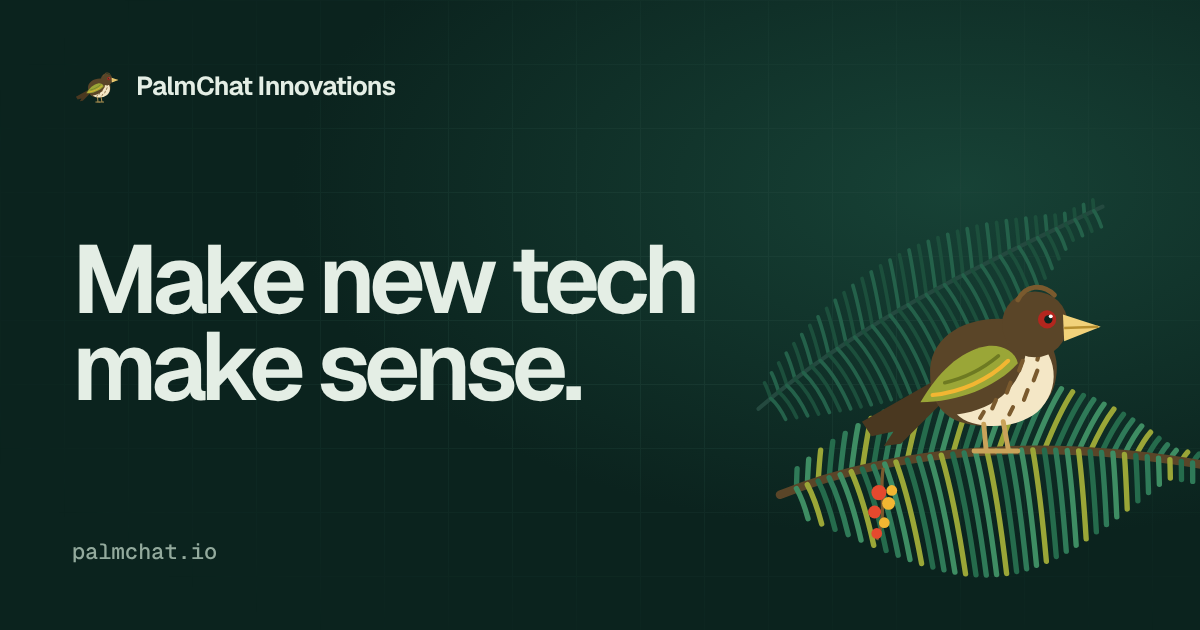
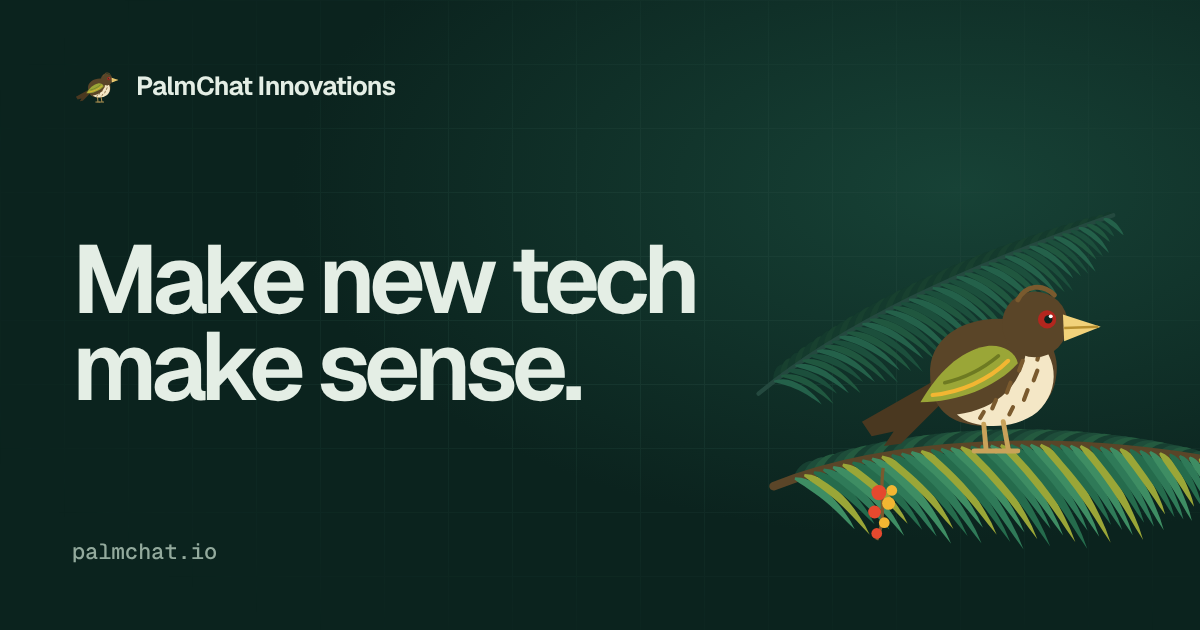
Redraw fronds as real palm leaves and make the nest solid
- Fronds: long, tapered leaflets that arch and droop, with a darker far side behind the rachis
- Nest: solid bowl and rim that fill in as it is built, so nothing shows through
- Link preview regenerated with the new fronds

Claude-Session: https://claude.ai/code/session_01UytVwwVVXUm7dnVo93DB2H

Changed region(s): [[0.6167, 0.3317, 1.0, 0.9349]]

diff --git a/script.js b/script.js
@@ -32,28 +32,42 @@
   if (!reduce) document.querySelectorAll('[data-assemble] .bird').forEach((b) => b.classList.add('assemble'));
 
   /* ---- royal palm fronds, generated leaflet by leaflet ---- */
+  /* A royal palm frond: an arching rachis with long, narrow leaflets that taper and droop.
+     Far-side leaflets sit behind the rachis in darker greens; near-side ones hang in front. */
   function frond(svg, d, o) {
-    const g = document.createElementNS(SVGNS, 'g');
-    const back = document.createElementNS(SVGNS, 'g');
-    const rach = document.createElementNS(SVGNS, 'path');
+    const mk = (n) => document.createElementNS(SVGNS, n);
+    const g = mk('g'), far = mk('g'), near = mk('g'), rach = mk('path');
     rach.setAttribute('d', d); rach.setAttribute('fill', 'none'); rach.setAttribute('stroke', o.stem);
     rach.setAttribute('stroke-width', o.w); rach.setAttribute('stroke-linecap', 'round');
-    svg.appendChild(g); g.appendChild(back); g.appendChild(rach);
-    const L = rach.getTotalLength();
+    svg.appendChild(g); g.append(far, rach, near);
+    const L = rach.getTotalLength(), step = o.step || 0.022, farCols = o.far || ['#173F31', '#1E4D3A', '#245A3F'];
+    const theta = o.theta || 0.62, steps = 12;
     let i = 0;
-    for (let t = o.from || 0.04; t < 0.985; t += o.step || 0.026, i++) {
+    for (let t = o.from || 0.05; t < 0.985; t += step, i++) {
       const p = rach.getPointAtLength(t * L), q = rach.getPointAtLength(Math.min(L, t * L + 2));
-      const a = Math.atan2(q.y - p.y, q.x - p.x), len = o.len * Math.sin(Math.PI * Math.min(1, t * 1.12)) + 12;
-      for (const side of [-1, 1]) {
-        const ang = a + side * 1.05 + (side > 0 ? 0.35 : -0.15), droop = side > 0 ? 0.42 : 0.16;
-        const ex = p.x + Math.cos(ang) * len, ey = p.y + Math.sin(ang) * len + len * droop;
-        const leaf = document.createElementNS(SVGNS, 'path');
-        leaf.setAttribute('d', `M${p.x.toFixed(1)} ${p.y.toFixed(1)} Q${(p.x + Math.cos(ang) * len * 0.55).toFixed(1)} ${(p.y + Math.sin(ang) * len * 0.55).toFixed(1)} ${ex.toFixed(1)} ${ey.toFixed(1)}`);
-        leaf.setAttribute('fill', 'none'); leaf.setAttribute('stroke', o.cols[(i + (side > 0 ? 1 : 0)) % o.cols.length]);
-        leaf.setAttribute('stroke-width', o.lw); leaf.setAttribute('stroke-linecap', 'round');
+      const a = Math.atan2(q.y - p.y, q.x - p.x);
+      const prof = Math.pow(Math.sin(Math.PI * Math.min(1, 0.1 + t * 0.95)), 0.75);
+      const dirs = [a - theta, a + theta].sort((x, y) => Math.sin(x) - Math.sin(y)); // [up, down]
+      dirs.forEach((ang, k) => {
+        const isNear = k === 1, jitter = ((i * 37 + k * 11) % 7) / 7;
+        const len = o.len * (0.3 + 0.7 * prof) * (isNear ? 1 : 0.86) * (0.92 + jitter * 0.16);
+        const grav = (isNear ? 0.5 : 0.62) + jitter * 0.12, maxW = o.lw * (0.8 + prof * 0.35);
+        const dx = Math.cos(ang), dy = Math.sin(ang), left = [], right = [];
+        for (let n = 0; n <= steps; n++) {
+          const u = n / steps;
+          const cx = p.x + dx * len * u, cy = p.y + dy * len * u + grav * len * u * u;
+          const tx = dx * len, ty = dy * len + 2 * grav * len * u, tl = Math.hypot(tx, ty) || 1;
+          const w = maxW * Math.pow(Math.sin(Math.PI * Math.min(1, u * 1.08 + 0.02)), 0.55) * (1 - 0.45 * u);
+          const nx = -ty / tl * w / 2, ny = tx / tl * w / 2;
+          left.push(`${(cx + nx).toFixed(1)} ${(cy + ny).toFixed(1)}`); right.push(`${(cx - nx).toFixed(1)} ${(cy - ny).toFixed(1)}`);
+        }
+        const leaf = mk('path');
+        leaf.setAttribute('d', `M${left.join(' L')} L${right.reverse().join(' L')}Z`);
+        const cols = isNear ? o.cols : farCols;
+        leaf.setAttribute('fill', cols[(i + k) % cols.length]);
         if (o.sway && !reduce) { leaf.style.transformOrigin = `${p.x}px ${p.y}px`; leaf.style.animation = `sway ${2.8 + (i % 5) * 0.45}s ${-i * 0.12}s infinite ease-in-out alternate`; }
-        (side < 0 ? back : g).appendChild(leaf);
-      }
+        (isNear ? near : far).appendChild(leaf);
+      });
     }
   }
   const leaves = ['#2F7A58', '#3E8D63', '#9AA637', '#256B4C'];
@@ -66,13 +80,13 @@
   };
   const presets = {
     hero: (s) => {
-      frond(s, 'M-20 250 C 70 172, 170 124, 300 62', { stem: '#24493F', cols: ['#1C4F3C', '#24614A'], len: 44, w: 4, lw: 3.5, sway: true });
-      frond(s, 'M0 330 C 110 286, 250 276, 404 304', { stem: '#5A4528', cols: leaves, len: 70, w: 8, lw: 5, sway: true });
+      frond(s, 'M-20 236 C 60 170, 170 120, 310 70', { stem: '#24493F', cols: ['#1C4F3C', '#24614A', '#20573F'], far: ['#143A2D', '#18402F'], len: 70, w: 4, lw: 7 });
+      frond(s, 'M-6 322 C 100 280, 260 272, 410 300', { stem: '#5A4528', cols: leaves, len: 92, w: 8, lw: 10, sway: true });
       fruit(s);
     },
-    perch: (s) => frond(s, 'M404 300 C 300 262, 160 250, -4 284', { stem: '#5A4528', cols: leaves, len: 62, w: 8, lw: 5, sway: true }),
-    twig: (s) => frond(s, 'M-50 177 C 30 170, 150 170, 280 186', { stem: '#5A4528', cols: ['#2F7A58', '#3E8D63', '#9AA637'], len: 30, w: 6, lw: 4, step: 0.06, from: 0.08, sway: true }),
-    bg: (s) => frond(s, 'M10 390 C 70 250, 190 140, 395 80', { stem: '#9AA637', cols: ['#2F7A58', '#3E8D63', '#9AA637'], len: 96, w: 5, lw: 4, sway: true }),
+    perch: (s) => frond(s, 'M410 296 C 300 258, 150 250, -10 282', { stem: '#5A4528', cols: leaves, len: 84, w: 8, lw: 9.5, sway: true }),
+    twig: (s) => frond(s, 'M-40 176 C 40 168, 150 168, 280 184', { stem: '#5A4528', cols: ['#2F7A58', '#3E8D63', '#9AA637'], len: 46, w: 5, lw: 6.5, step: 0.045, from: 0.07, sway: true }),
+    bg: (s) => frond(s, 'M10 390 C 70 250, 190 140, 395 80', { stem: '#9AA637', cols: ['#2F7A58', '#3E8D63', '#9AA637'], len: 120, w: 5, lw: 11, step: 0.026, sway: true }),
   };
   document.querySelectorAll('svg[data-frond]').forEach((svg) => presets[svg.dataset.frond]?.(svg));
 

diff --git a/home.js b/home.js
@@ -34,7 +34,7 @@
   }));
   /* the nest: built a strand at a time, one per landing */
   const nest = document.getElementById('nest'), strandsG = document.getElementById('strands');
-  const spot = stage.querySelector('.nest-spot');
+  const spot = stage.querySelector('.nest-spot'), bowl = nest.querySelector('.bowl');
   const STRANDS = 14, strandEls = [];
   const browns = ['#5A4528', '#7A5A2E', '#4A3820', '#9AA637', '#6E5734', '#8A6A38'];
   for (let i = 0; i < STRANDS; i++) {
@@ -48,6 +48,7 @@
   const setNest = (n) => {
     strandEls.forEach((el, i) => { el.style.strokeDashoffset = i < n ? 0 : el.dataset.l; });
     nest.classList.toggle('started', n > 0); nest.classList.toggle('full', n >= STRANDS);
+    bowl.style.opacity = (n / STRANDS).toFixed(2);
   };
   if (root.classList.contains('static')) { spot.appendChild(nest); setNest(STRANDS); return; }
 

diff --git a/index.html b/index.html
@@ -121,7 +121,7 @@
     </section>
 
     <div class="nest" id="nest" aria-hidden="true">
-      <svg viewBox="0 0 200 120"><ellipse class="cup" cx="100" cy="50" rx="74" ry="15" fill="#2A1D0F"/><g id="strands"></g></svg>
+      <svg viewBox="0 0 200 120"><path class="bowl" d="M22 48 C 22 120, 178 120, 178 48 Z" fill="#4A3820"/><g class="cup"><ellipse cx="100" cy="49" rx="77" ry="16" fill="#6E5734"/><ellipse cx="100" cy="50" rx="68" ry="11" fill="#22170B"/></g><g id="strands"></g></svg>
       <span class="friend f1" data-bird></span><span class="friend f2" data-bird></span>
     </div>
     <div class="flyer" id="flyer" aria-hidden="true"><span data-bird style="display:block;width:100%;height:100%"></span></div>

diff --git a/scripts/partials/home.html b/scripts/partials/home.html
@@ -92,7 +92,7 @@
     </section>
 
     <div class="nest" id="nest" aria-hidden="true">
-      <svg viewBox="0 0 200 120"><ellipse class="cup" cx="100" cy="50" rx="74" ry="15" fill="#2A1D0F"/><g id="strands"></g></svg>
+      <svg viewBox="0 0 200 120"><path class="bowl" d="M22 48 C 22 120, 178 120, 178 48 Z" fill="#4A3820"/><g class="cup"><ellipse cx="100" cy="49" rx="77" ry="16" fill="#6E5734"/><ellipse cx="100" cy="50" rx="68" ry="11" fill="#22170B"/></g><g id="strands"></g></svg>
       <span class="friend f1" data-bird></span><span class="friend f2" data-bird></span>
     </div>
     <div class="flyer" id="flyer" aria-hidden="true"><span data-bird style="display:block;width:100%;height:100%"></span></div>

diff --git a/styles.css b/styles.css
@@ -448,6 +448,7 @@ footer .pad{display:flex;justify-content:space-between;gap:12px;flex-wrap:wrap;p
 .nest{position:absolute;left:0;top:0;width:130px;z-index:15;pointer-events:none;will-change:transform}
 .nest svg{display:block;width:100%;height:auto;overflow:visible}
 .nest .cup{opacity:0;transition:opacity .6s}
+.nest .bowl{opacity:0;transition:opacity .6s}
 .nest.started .cup{opacity:1}
 .nest .strand{fill:none;stroke-linecap:round;transition:stroke-dashoffset .9s var(--ease)}
 .nest .friend{position:absolute;width:62%;aspect-ratio:1.2;top:-36%;opacity:0;transform:translateY(-30px) scale(.8);transition:opacity .5s var(--ease),transform .7s var(--ease)}
